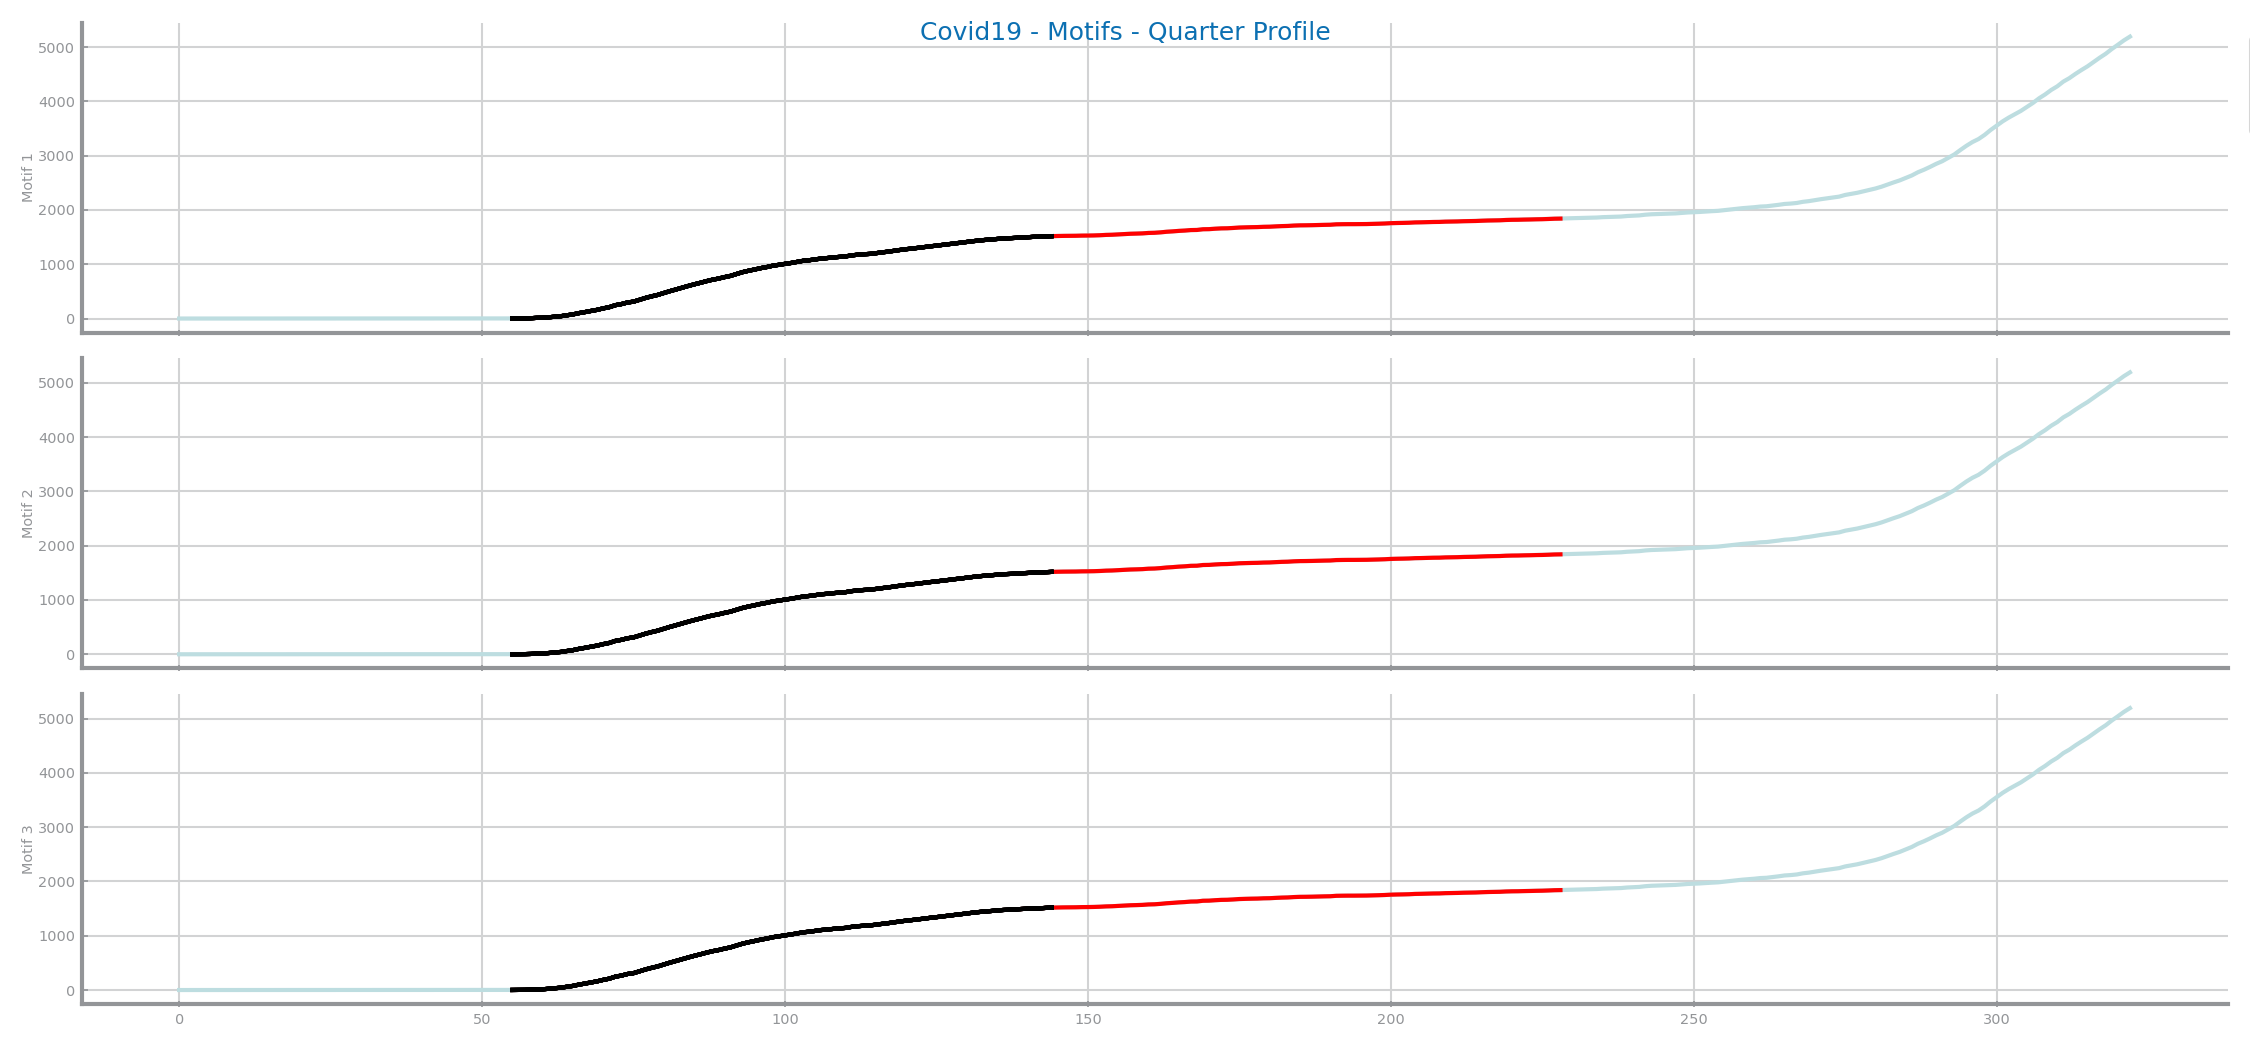
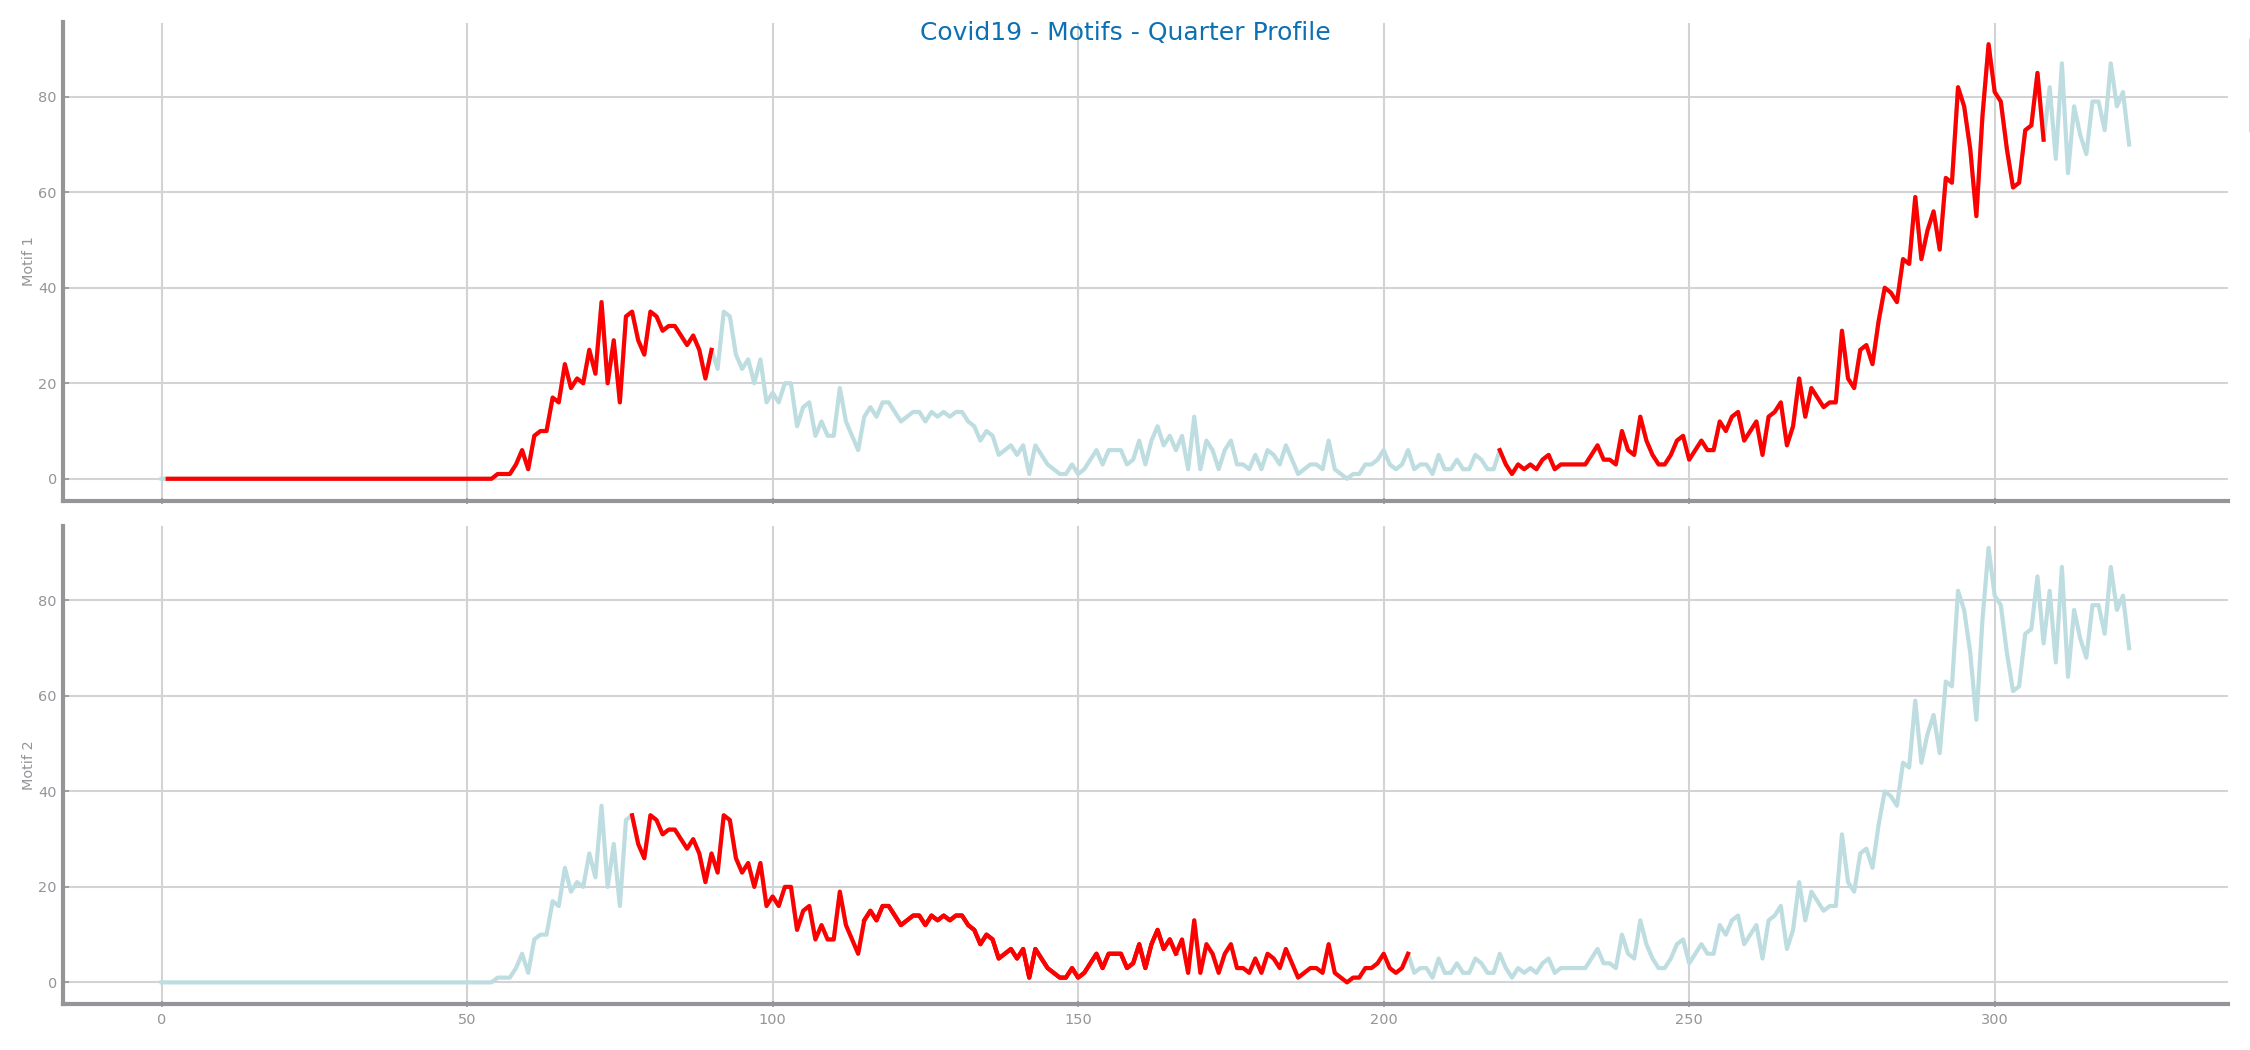
results

diff --git a/Last_Labs/covid19_motif_discovery.py b/Last_Labs/covid19_motif_discovery.py
@@ -6,7 +6,7 @@ import ts_functions as ts
 import matrixprofile as mp
 
 data = pd.read_csv('../Dataset/covid19_pt.csv')
-data = data.diff()
+#data = data.sort_values(by='Date')
 
 graphsDir = './Results/Motif Discovery/Original/'
 if not os.path.exists(graphsDir):
@@ -17,7 +17,10 @@ print('Covid19 - Original')
 index_var = 'Date'
 variable = 'deaths'
 data[index_var] = pd.to_datetime(data[index_var])
-data = data.set_index(index_var).sort_index()
+data = data.set_index(index_var)
+data = data.diff()
+data['deaths'][0] = 0
+data = data.sort_index()
 
 FIG_WIDTH, FIG_HEIGHT = 3*ts.HEIGHT, ts.HEIGHT/2
 
@@ -68,9 +71,9 @@ def compute_all_profiles(profiles: dict, windows: list, k: int, type: str='motif
     if type == 'discords':
         discover_function = mp.discover.discords
 
-    for label, _ in windows:
+    for label, size in windows:
         key = '{} Profile'.format(label)
-        profiles[key] = discover_function(profiles[key], k=k)
+        profiles[key] = discover_function(profiles[key], k=k, exclusion_zone=size)
 
 
 graphsDir = './Results/Motif Discovery/Motifs/'
@@ -80,7 +83,7 @@ if not os.path.exists(graphsDir):
 print('Covid19 - Motifs')
 
 
-compute_all_profiles(all_profiles, all_windows, k=3, type='motifs')
+compute_all_profiles(all_profiles, all_windows, k=5, type='motifs')
 
 def show_profile(profile, title, type):
     lst_figs = mp.visualize(profile)

diff --git a/Last_Labs/covid19_forecasting.py b/Last_Labs/covid19_forecasting.py
@@ -11,6 +11,7 @@ from statsmodels.tsa.statespace.sarimax import SARIMAX
 data = pd.read_csv('../Dataset/covid19_pt.csv', index_col='Date', sep=',', decimal='.',
                    parse_dates=True, infer_datetime_format=True)
 data = data.diff()
+data['deaths'][0] = 0
 data = data.sort_values(by='Date')
 data = data.asfreq('D')
 

diff --git a/Last_Labs/covid19_transformation.py b/Last_Labs/covid19_transformation.py
@@ -6,6 +6,7 @@ import ts_functions as ts
 data = pd.read_csv('../Dataset/covid19_pt.csv', index_col='Date', sep=',', decimal='.',
                    parse_dates=True, infer_datetime_format=True)
 data = data.diff()
+data['deaths'][0] = 0
 data = data.sort_values(by='Date') 
 
 graphsDir = './Results/Transformation/Smoothing/'

diff --git a/Last_Labs/covid19_profiling.py b/Last_Labs/covid19_profiling.py
@@ -7,6 +7,7 @@ import numpy as np
 data = pd.read_csv('../Dataset/covid19_pt.csv', index_col='Date', sep=',', decimal='.',
                    parse_dates=True, infer_datetime_format=True)
 data = data.diff()
+data['deaths'][0] = 0
 data = data.sort_values(by='Date')
 
 graphsDir = './Results/Profiling/Dimensionality/'
